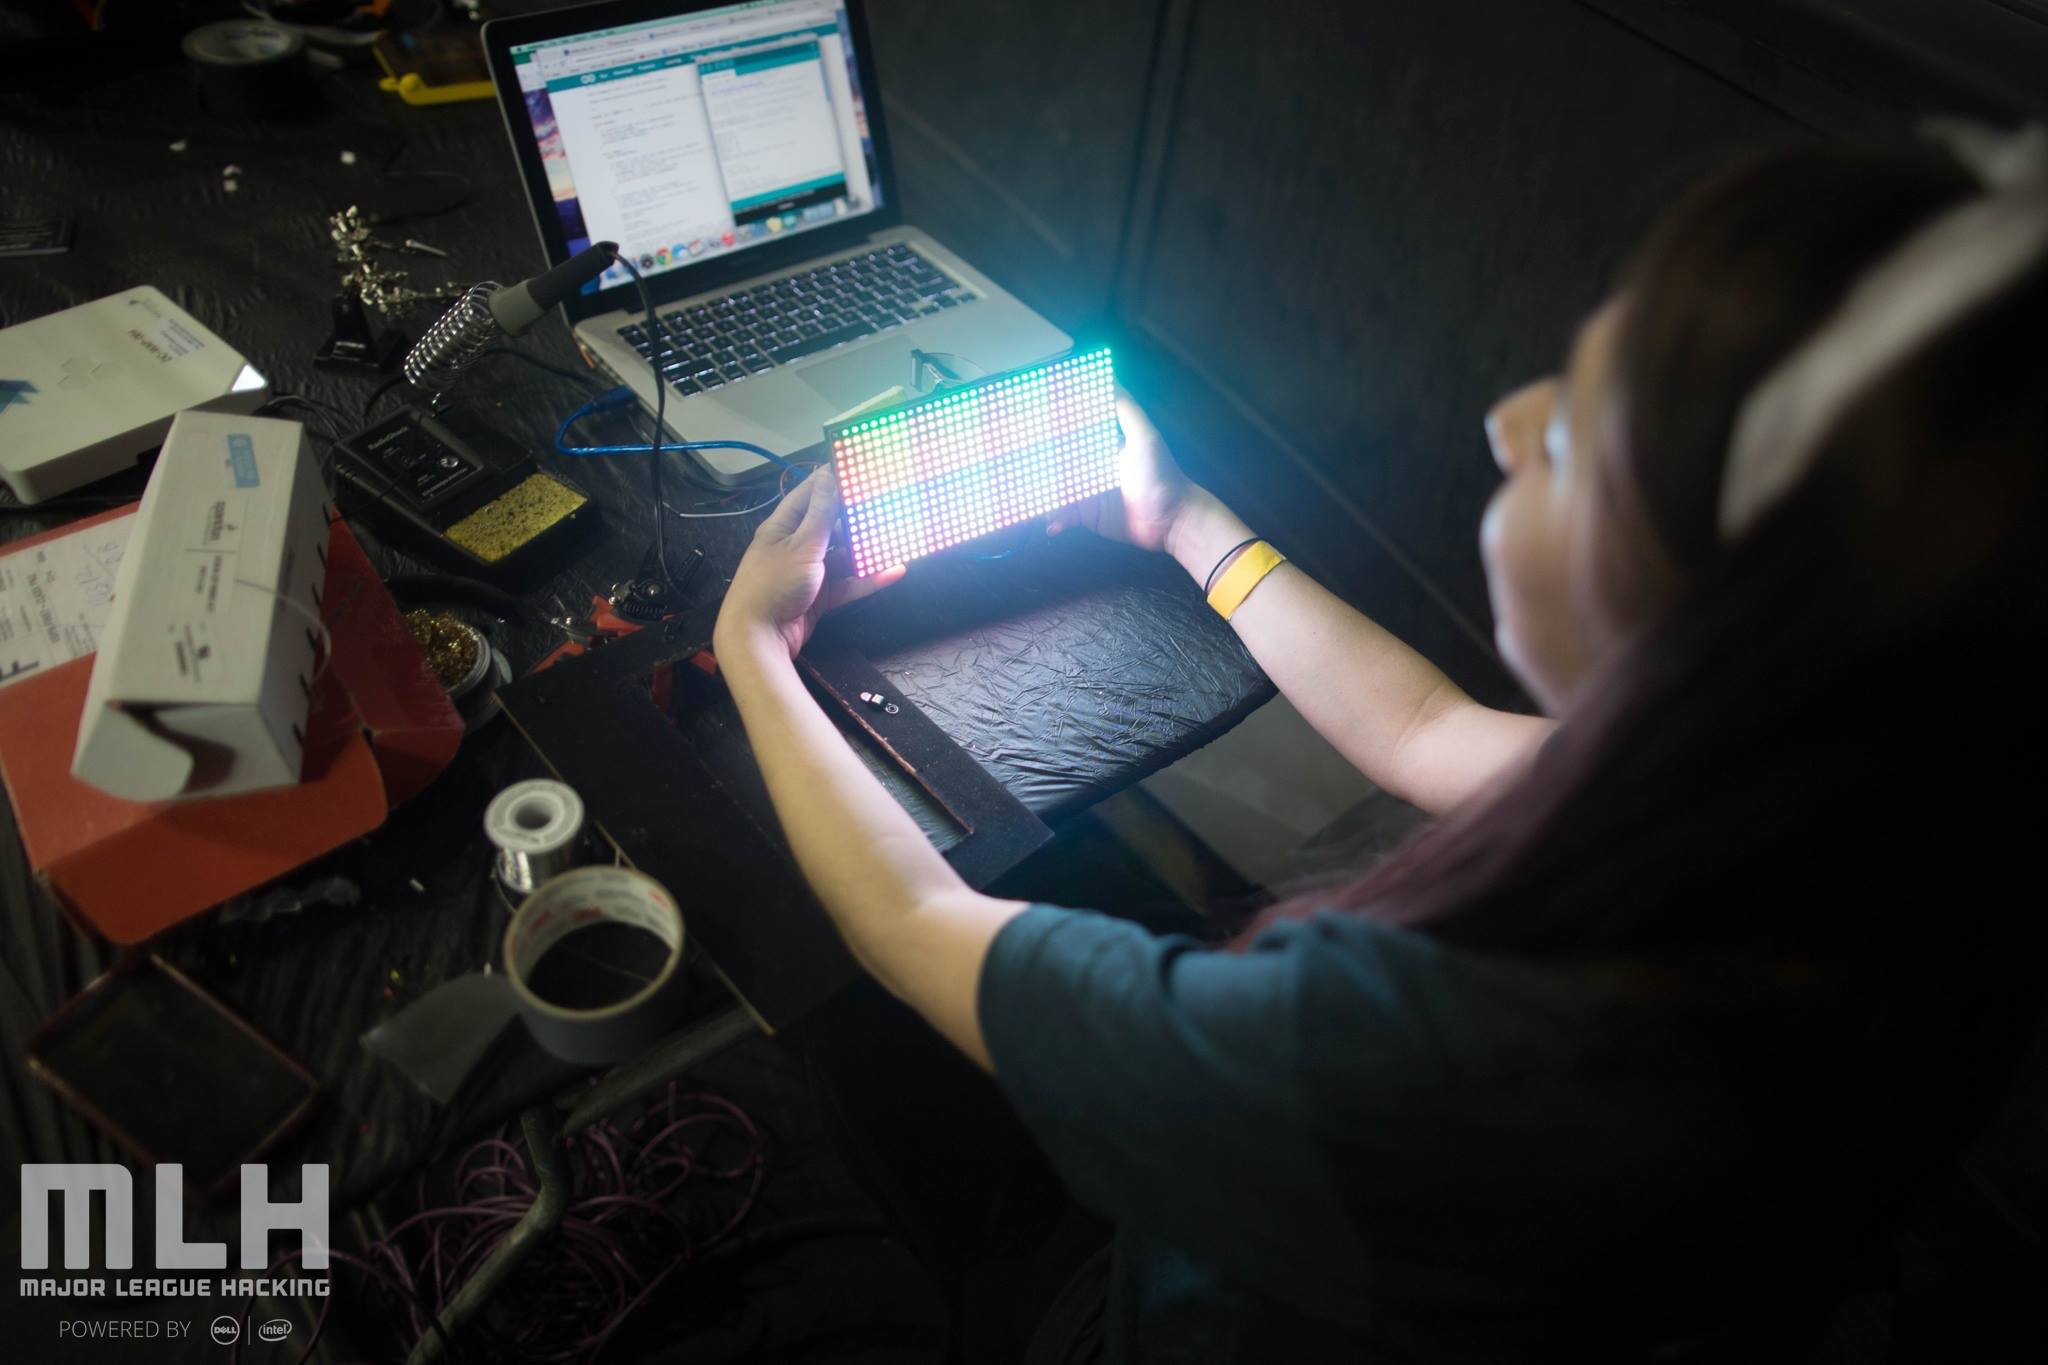
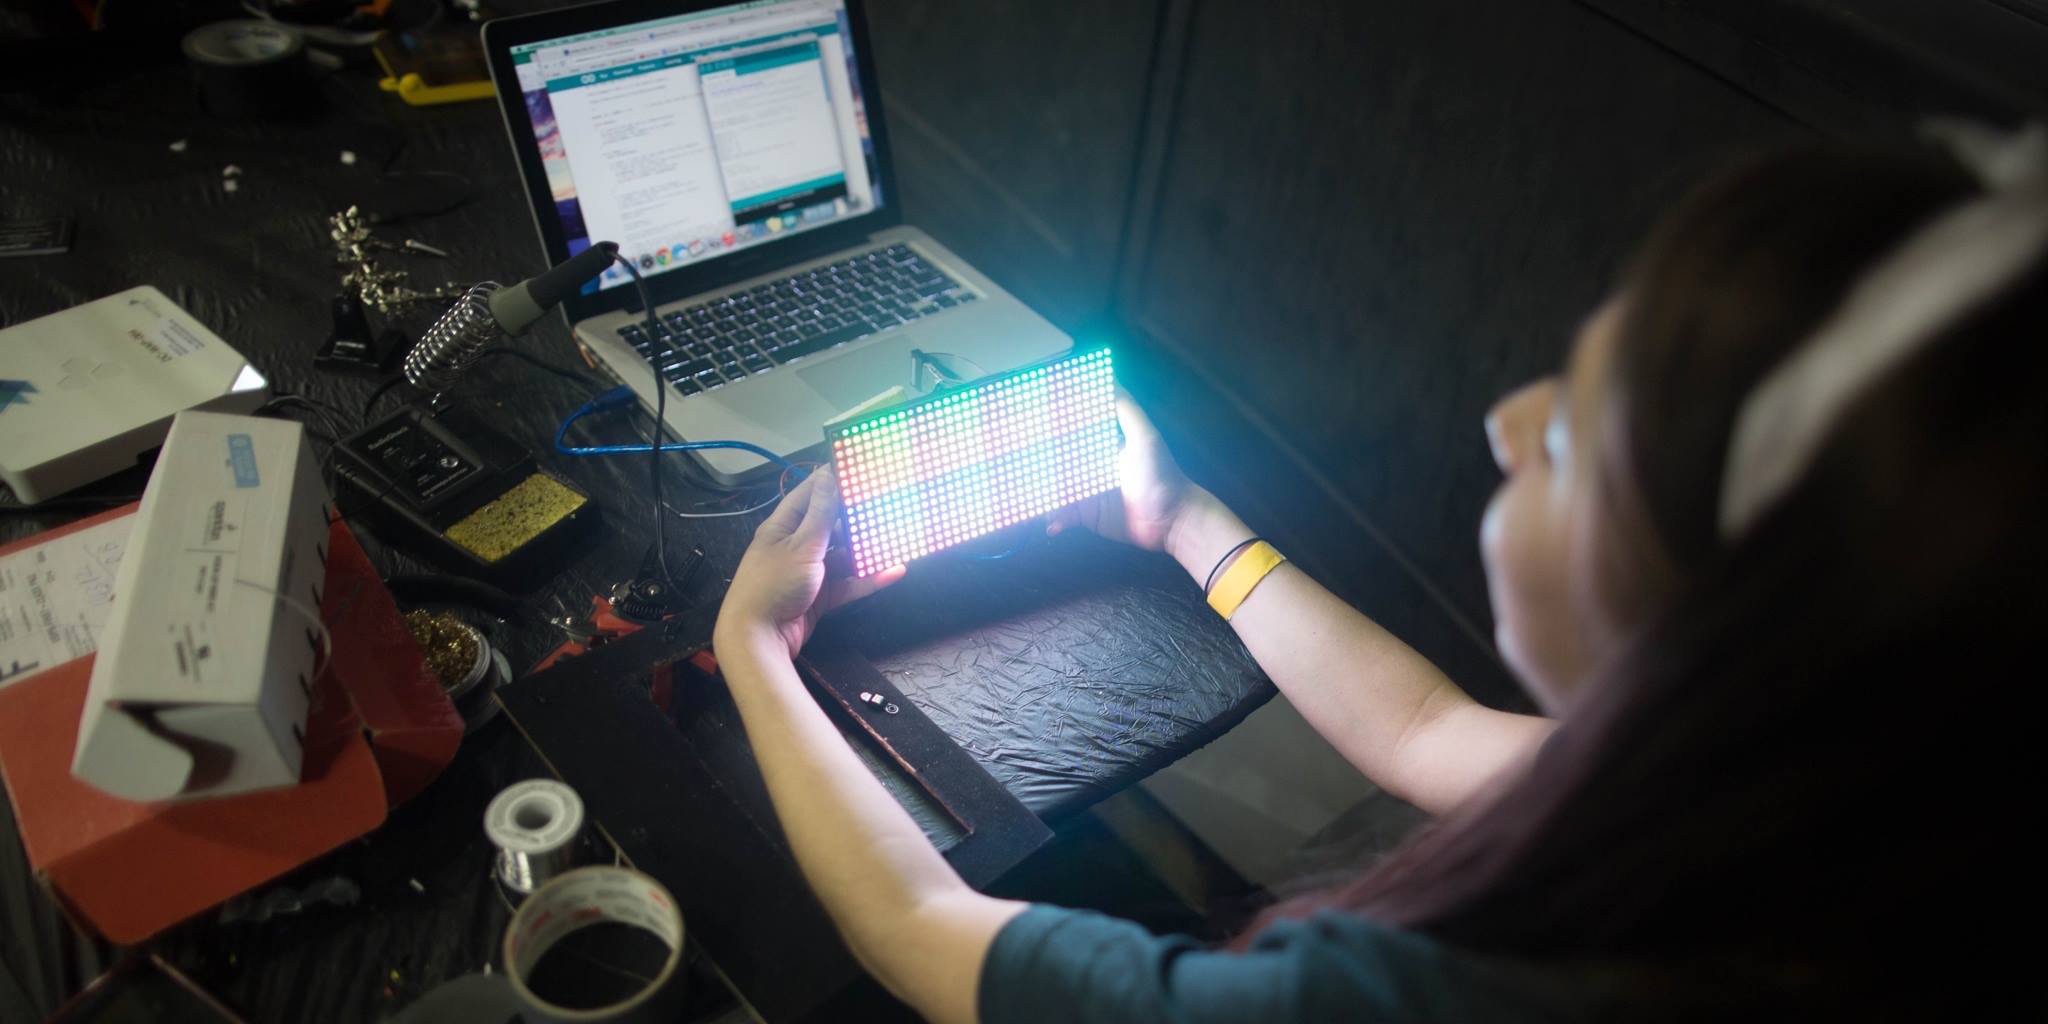
crop stef.jpg, remove ratio mixins

diff --git a/css/gen/style.css b/css/gen/style.css
@@ -209,25 +209,6 @@ hr {
   body, html {
     font-size: 10px; } }
 
-.ratio {
-  position: relative;
-  width: 100%;
-  overflow: hidden; }
-  .ratio:before {
-    content: "";
-    display: block;
-    padding-top: 100%; }
-
-.ratio > * {
-  position: absolute;
-  top: 0;
-  left: 0;
-  bottom: 0;
-  right: 0; }
-
-.ratio-1_2:before {
-  padding-top: 33.33%; }
-
 form {
   -webkit-animation-duration: 1s;
   animation-duration: 1s;

diff --git a/scss/_base.scss b/scss/_base.scss
@@ -63,31 +63,3 @@ hr {
         font-size: 10px;
     }
 }
-
-
-// LAYOUT
-
-.ratio {
-  position: relative;
-  width: 100%;
-  overflow: hidden;
-
-  &:before{
-    content: "";
-    display: block;
-    padding-top: 100%;
-  }
-}
-
-.ratio > * {
-  position:  absolute;
-  top: 0;
-  left: 0;
-  bottom: 0;
-  right: 0;
-}
-
-.ratio-1_2:before {
-  padding-top: 33.33%;
-}
-
